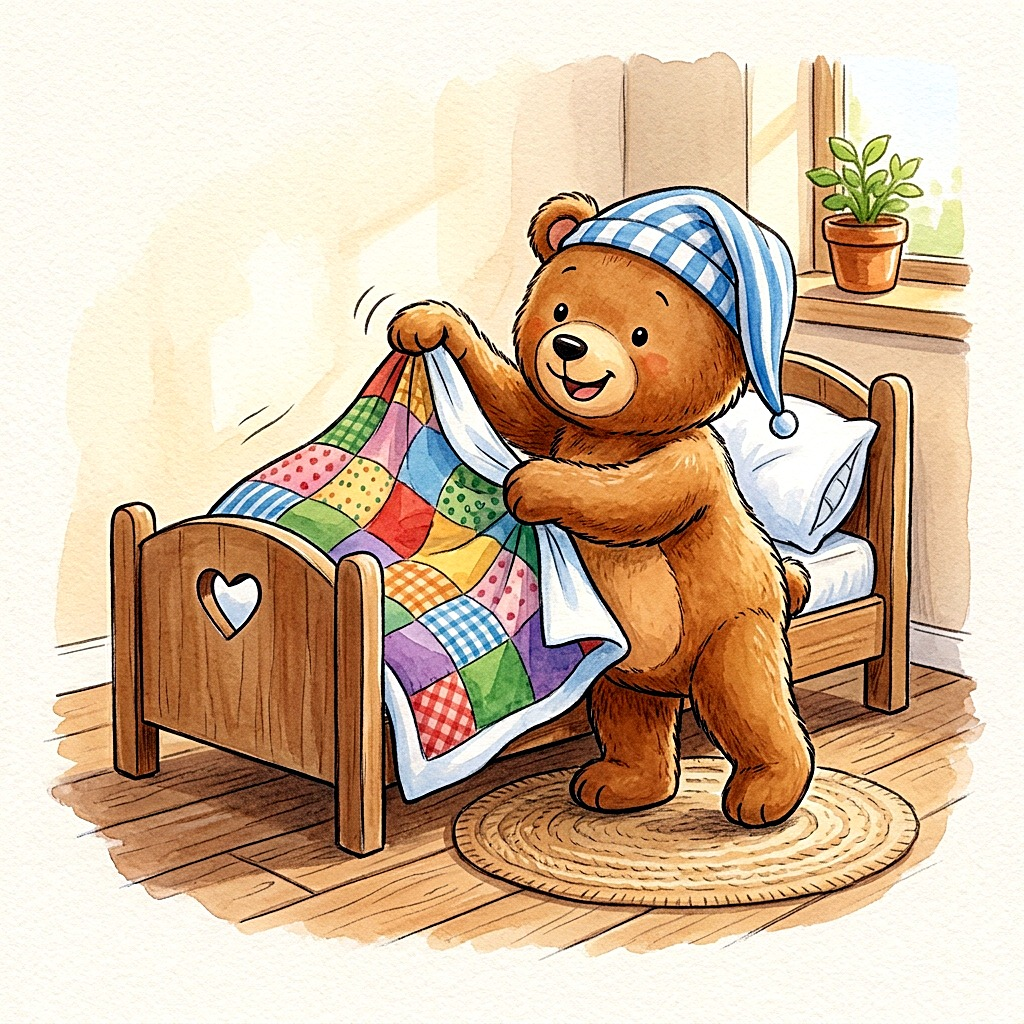
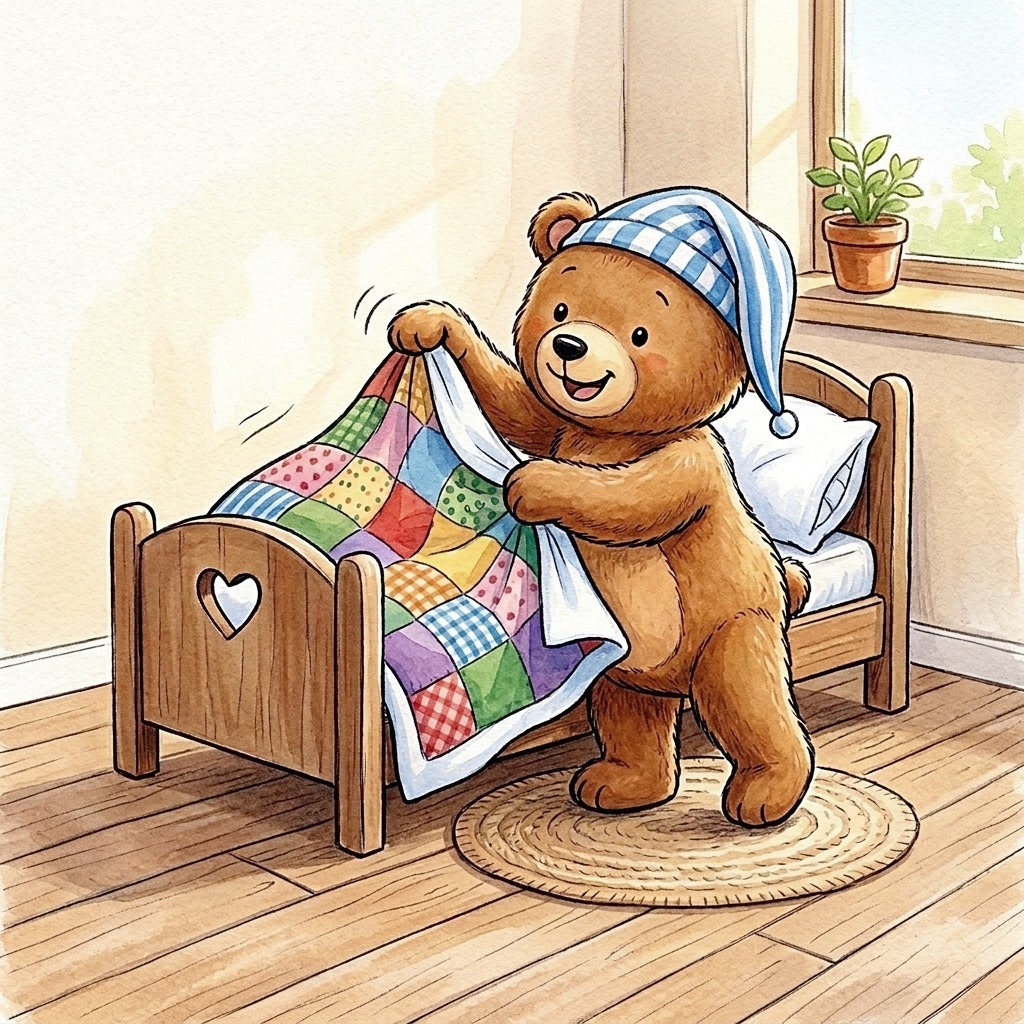
make-bed: recreated edge to edge without the paper border
agy (Gemini) redrew the same picture to fill the canvas; cropping would have
cut off the bed. The raw image was not run through tools/enhance.py because
its reference was already enhanced (that doubled the saturation to 108.6);
gamma 0.85 and color x0.88 like good-morning and sleep instead. Google Lens
Exact matches on raw and final file: none.

diff --git a/output/sl-vsakdan.html b/output/sl-vsakdan.html
@@ -239,11 +239,11 @@
         </div>
         <div class="rt-check"></div>
       </div>
-      <div class="rt-pic pic-right" style="--step: #A855F7; --bg: #FFFEF5; --ink: #6A3BAA; grid-row: 4 / span 4;">
+      <div class="rt-pic pic-right" style="--step: #A855F7; --bg: #FBFAF2; --ink: #6A3BAA; grid-row: 4 / span 4;">
         <img src="../images/make-bed.jpg" alt="Pospravi posteljo" />
         <div class="rt-num">2</div>
       </div>
-      <div class="rt-card card-right" style="--step: #A855F7; --bg: #FFFEF5; --ink: #6A3BAA; grid-row: 5 / span 2;">
+      <div class="rt-card card-right" style="--step: #A855F7; --bg: #FBFAF2; --ink: #6A3BAA; grid-row: 5 / span 2;">
         <div class="rt-text">
           <div class="rt-label">POSPRAVI POSTELJO</div>
           <div class="rt-time"><span class="blank"></span>:<span class="blank"></span></div>

diff --git a/web/data.js b/web/data.js
@@ -456,7 +456,7 @@ window.SHEET_EDGES = {
   "getting-dressed": ["#EBFCF3", "#DEF7E6"],
   "good-morning": ["#ECE0D3", "#F6F7F7"],
   "kindergarten": ["#E7DECC", "#E2D3B8"],
-  "make-bed": ["#FFFDF5", "#FFFEF5"],
+  "make-bed": ["#F2DDC3", "#FBFAF2"],
   "pajamas": ["#FDD5BF", "#FCD6BD"],
   "set-table": ["#FDE8D7", "#FFDD9C"],
   "sleep": ["#D0CBD9", "#E2E0E9"],
